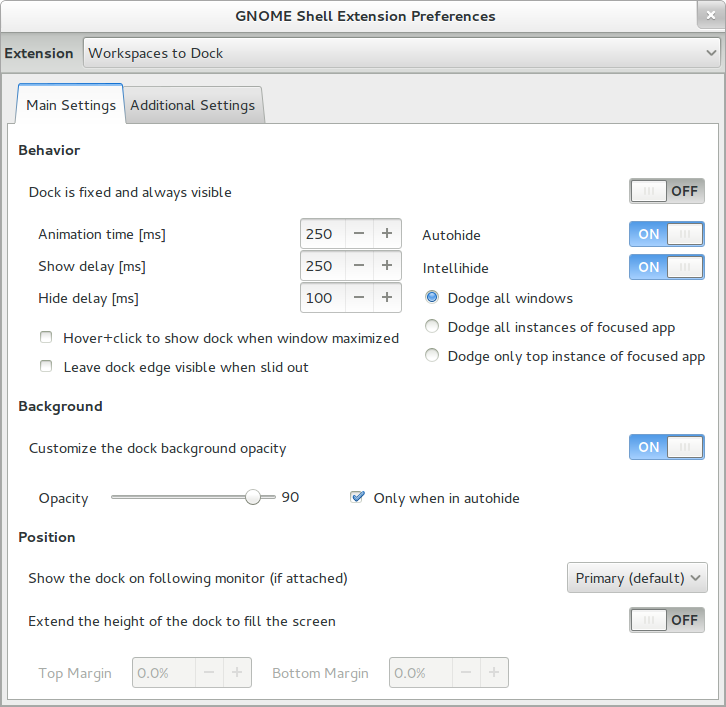
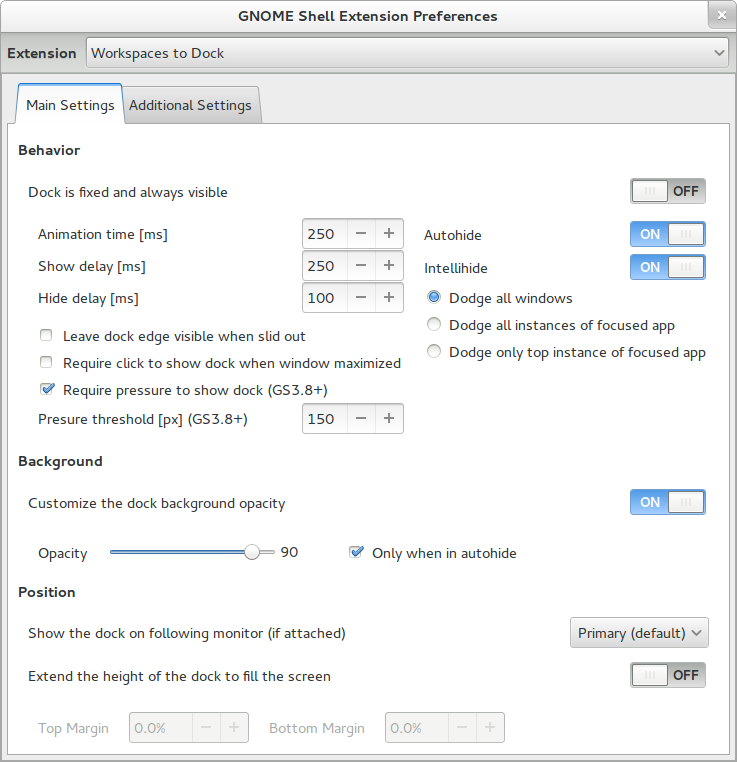
Updated readme and screenshots.

diff --git a/README.md b/README.md
@@ -33,37 +33,41 @@ Main Settings:
 
     **Dock is fixed and always visible** - The dock remains visible at all times.
 
-	**Autohide** - When enabled, the dock shows when the mouse touches the right edge of screen. When disabled, the dock remains hidden unless the intellihide option is on or overview mode is entered.
+    **Autohide** - When enabled, the dock shows when the mouse touches the right edge of screen. When disabled, the dock remains hidden unless the intellihide option is on or overview mode is entered.
 
-	**Intellihide** - When enabled, the dock remains visible but hides itself when a window touches it. When disabled, dock remains hidden unless the autohide option is on or overview mode is entered.
+    **Intellihide** - When enabled, the dock remains visible but hides itself when a window touches it. When disabled, dock remains hidden unless the autohide option is on or overview mode is entered.
 
-	**Dodge all windows** - Intellihide option to dodge all windows.
+    **Dodge all windows** - Intellihide option to dodge all windows.
 
-	**Dodge all instances of focused app** - If multiple instances of the focused application are opened, all windows of that app are dodged.
+    **Dodge all instances of focused app** - If multiple instances of the focused application are opened, all windows of that app are dodged.
 
-	**Dodge only top instance of focused app** - If multiple instances of the focused application are opened, only the top instance window is dodged.
+    **Dodge only top instance of focused app** - If multiple instances of the focused application are opened, only the top instance window is dodged.
 
-	**Animation time** - The time it takes the dock to slide from hidden to visible state and vise versa.
+    **Animation time** - The time it takes the dock to slide from hidden to visible state and vise versa.
 
-	**Show delay** - The time delayed before sliding the dock to the visible state. Adjusting this delay higher (500ms-700ms) can help prevent accidentally triggering the dock when using vertical scroll bars on maximized windows.
+    **Show delay** - The time delayed before sliding the dock to the visible state. Adjusting this delay higher (500ms-700ms) can help prevent accidentally triggering the dock when using vertical scroll bars on maximized windows.
 
-	**Hide delay** - The time delayed before sliding the dock to the hidden state.
-
-    **Hover+click to show dock when window maximized** - Require a mouse click (in addition to hovering) to show the dock when the focused window is maximized. This option helps eliminate accidentally triggering the dock when using vertical scroll bars on maximized windows.
+    **Hide delay** - The time delayed before sliding the dock to the hidden state.
 
     **Leave dock edge visible when slid out** - Option to leave the dock edge visible when in the slid out or hidden state. This option makes the dock more easily accessible in dual monitor configurations where the second monitor is to the right.
 
+    **Require click to show dock when window maximized** - Require a mouse click (in addition to hovering) to show the dock when the focused window is maximized. This option helps eliminate accidentally triggering the dock when using vertical scroll bars on maximized windows.
+
+    **Require pressure to show dock** - Require mouse pressure to show the dock. This feature requires Gnome Shell 3.8+ and an XServer installation that implements pressure barriers.
+
+    **Pressure threshold** - The amount of pressure required to activate and show the dock. This setting works in conjunction with 'Require pressure to show dock' above and requires Gnome Shell 3.8+ and an XServer installation that implements pressure barriers.
+
 - **Background:**
 
-	**Customize the dock background opacity** - Allows setting a different transparency value for the dock.
+    **Customize the dock background opacity** - Allows setting a different transparency value for the dock.
 
- 	**Opacity** - Percentage of transparency desired.
+    **Opacity** - Percentage of transparency desired.
 
-	**Only when in autohide** - Only customize the opacity when the dock is shown by the mouse touching the right edge of the screen. In such cases, the dock is usually shown over other windows so that less transparency is desired.
+    **Only when in autohide** - Only customize the opacity when the dock is shown by the mouse touching the right edge of the screen. In such cases, the dock is usually shown over other windows so that less transparency is desired.
 
 - **Position:**
 
-	**Show the dock on following monitor (if attached)** - Option to position the workspaces dock on a secondary monitor in dual monitor configurations.
+    **Show the dock on following monitor (if attached)** - Option to position the workspaces dock on a secondary monitor in dual monitor configurations.
 
     **Extend the height of the dock to fill the screen** - Option to extend the height of the dock to fill the screen.
 
@@ -79,34 +83,38 @@ Additional Settings:
 
 - **Workspace Captions:**
 
-	**Add captions to workspace thumbnails** - Adds captions to the workspace thumbnails. Right clicking on the workspace caption displays a popup menu with options to close applications or show the extension preferences dialog. (See image below)
+    **Add captions to workspace thumbnails** - Adds captions to the workspace thumbnails. Right clicking on the workspace caption displays a popup menu with options to close applications or show the extension preferences dialog. (See image below)
 
-	**User theme supports workspaces-to-dock captions** - When enabled, user themes that support workspaces-to-dock captions will be used to style the captions. Unfortunately, there is no built-in detection for when a theme supports workspaces-to-dock captions. Therefore, if this option is enabled, the default style will be disabled. We hope to provide auto-detection in a future release.
+    **User theme supports workspaces-to-dock captions** - When enabled, user themes that support workspaces-to-dock captions will be used to style the captions. Unfortunately, there is no built-in detection for when a theme supports workspaces-to-dock captions. Therefore, if this option is enabled, the default style will be disabled. We hope to provide auto-detection in a future release.
 
 ![screenshot](https://github.com/passingthru67/workspaces-to-dock/raw/master/Popup.png)
 
 - **Caption Items:**
 
-	**Show the workspace number** - When enabled, the workspace number is shown in the caption. It can be expanded to take up available space or its position can be adjusted using the arrow buttons.
+    **Show the workspace number** - When enabled, the workspace number is shown in the caption. It can be expanded to take up available space or its position can be adjusted using the arrow buttons.
 
-	**Show the workspace name** - When enabled, the workspace name is shown in the caption. It can be expanded to take up available space or its position can be adjusted using the arrow buttons. Workspace names can be edited using the Workspace Indicator extension. We hope to provide this ability in a future release.
+    **Show the workspace name** - When enabled, the workspace name is shown in the caption. It can be expanded to take up available space or its position can be adjusted using the arrow buttons. Workspace names can be edited using the Workspace Indicator extension. We hope to provide this ability in a future release.
 
-	**Show the workspace window count** - When enabled, the workspace window count is shown in the caption. It can be expanded to take up available space or its position can be adjusted using the arrow buttons. There is also an option to use images in place of numeric text.
+    **Show the workspace window count** - When enabled, the workspace window count is shown in the caption. It can be expanded to take up available space or its position can be adjusted using the arrow buttons. There is also an option to use images in place of numeric text.
 
     **Show the workspace taskbar (app icons)** - When enabled, the workspace taskbar is shown in the caption. The taskbar displays the icons of applications running on the workspace. It can be expanded to take up available space or its position can be adjusted using the arrow buttons. There is also an option to use large app icons. When the taskbar app icon is left-clicked, the application is brought into focus or minimized if it's already in focus. Right-clicking will bring up the caption popup menu shown above.
     
-	**Show a spacer/filler** - When enabled, a spacer is inserted in the caption. It can be expanded to take up available space or its position can be adjusted using the arrow buttons.
+    **Show a spacer/filler** - When enabled, a spacer is inserted in the caption. It can be expanded to take up available space or its position can be adjusted using the arrow buttons.
 
 Below are examples of the workspace (thumbnail) caption in various configurations
 ![screenshot](https://github.com/passingthru67/workspaces-to-dock/raw/master/Thumbnails.png)
 
 - **Custom Actions:**
 
-	**Toggle overview mode with right click** - When enabled, right clicking on the dock will toggle the overview mode.
+    **Toggle overview mode with right click** - When enabled, right clicking on the dock will toggle the overview mode.
+
+- **Keyboard Shortcuts:**
+
+    **Toggle the dock with keyboard shortcut** - When enabled, using the custom keyboard shortcut will toggle the workspaces dock.
 
 - **Dash Integration:**
 
-	**Show workspaces when hovering over Dash-To-Dock extension** - When enabled, hovering the mouse over the Dash-To-Dock extension will cause the workspaces dock to show. This feature is extremely useful in cases where your workspaces dock is hidden and you want to open a new app from the dash. Rather than going into overview just to see your workspaces, hover over the dash-to-dock extension. The workspaces dock will show to the right. Use the dash-to-dock scroll to go to the appropriate workspace.
+    **Show workspaces when hovering over Dash-To-Dock extension** - When enabled, hovering the mouse over the Dash-To-Dock extension will cause the workspaces dock to show. This feature is extremely useful in cases where your workspaces dock is hidden and you want to open a new app from the dash. Rather than going into overview just to see your workspaces, hover over the dash-to-dock extension. The workspaces dock will show to the right. Use the dash-to-dock scroll to go to the appropriate workspace.
 
 
 Workspace Caption Theming:
@@ -151,7 +159,7 @@ If you run into any problelms with the extension, try resetting the extension to
 
 To reset the extension to its default settings, type the command below in a terminal.
 
-	$ dconf reset -f /org/gnome/shell/extensions/workspaces-to-dock/
+    $ dconf reset -f /org/gnome/shell/extensions/workspaces-to-dock/
 
 If the behavior persists, try disabling all other extensions and enable each extension one at a time until the behavior reappears. You may be experiencing a conflict with another extension.
 
